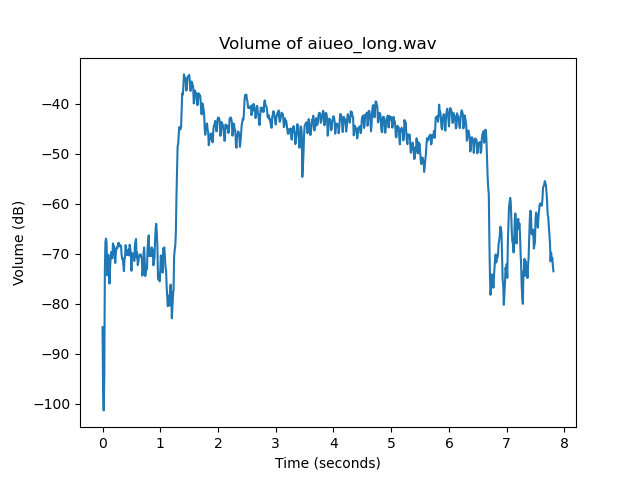
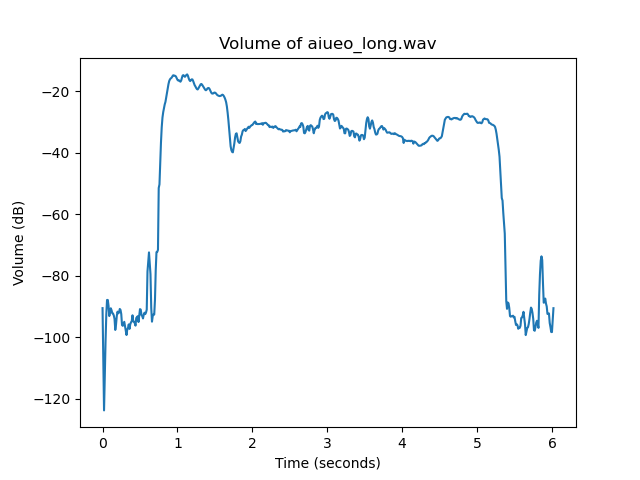
exer05 and exer06 - re-did for new audio

diff --git a/01_audio_recognition/05_06_aiueo_volume/plot_volume.py b/01_audio_recognition/05_06_aiueo_volume/plot_volume.py
@@ -1,53 +1,28 @@
-#
-# 計算機科学実験及演習 4「音響信号処理」
-# uses the recorded aiueo file to produce a graph of the volume of the audio file
-#
-
-# ライブラリの読み込み
 import matplotlib.pyplot as plt
 import numpy as np
 import librosa
 
 # サンプリングレート
 SR = 16000
+size_frame = 512
+size_shift = 16000 / 100
 
-# 音声ファイルの読み込み
-x, _ = librosa.load("../01_recording_aiueo/aiueo_long.wav", sr=SR)
-# x, _ = librosa.load("../01_recording_aiueo/aiueo_short.wav", sr=SR)
+# x, _ = librosa.load("../01_recording_aiueo/aiueo_long.wav", sr=SR)
+x, _ = librosa.load("../01_recording_aiueo/aiueo_short.wav", sr=SR)
 
-#
-# 短時間フーリエ変換
-#
-
-# フレームサイズ
-size_frame = 512  # 2のべき乗
-
-# シフトサイズ
-size_shift = 16000 / 100  # 0.01 秒 (10 msec)
-
-# volume threshhold
-threshold = -60  # for aiueo_long.wav
-# threshold = -40  # for aiueo_short.wav
-flag = False
-# container for volume
 volume_db = []
 
-# size_shift分ずらしながらsize_frame分のデータを取得
-# np.arange関数はfor文で辿りたい数値のリストを返す
-# 通常のrange関数と違うのは3つ目の引数で間隔を指定できるところ
-# (初期位置, 終了位置, 1ステップで進める間隔)
-for i in np.arange(0, len(x) - size_frame, size_shift):
+threshold = -40
+flag = False
 
-    # 該当フレームのデータを取得
-    idx = int(i)  # arangeのインデクスはfloatなのでintに変換
+for i in np.arange(0, len(x) - size_frame, size_shift):
+    idx = int(i)
     x_frame = x[idx: idx + size_frame]
     volume = 20 * np.log10(np.mean(x_frame**2))
 
     # ============= Exercise 6 ===============#
-    # aise flag if volume is above threshold
-    # as a check for speach in the audio file
-    # print to console the time when flag is raised
-    # and when the flag is lowered.
+    # code to log to terminal when speech starts
+    # and ends in the audio files
     time_in_seconds = i / SR
     if volume > threshold and not flag:
         print(f"Speach started at: {time_in_seconds:.2f} seconds")
@@ -57,10 +32,8 @@ for i in np.arange(0, len(x) - size_frame, size_shift):
         flag = False
     # ========================================#
 
-    # フレームの音量を計算
     volume_db.append(volume)
 
-# 画像として保存するための設定
 fig = plt.figure()
 
 # plot volume graph
@@ -68,15 +41,10 @@ time = np.arange(0, len(volume_db)) * size_shift / SR
 plt.plot(time, volume_db)
 plt.xlabel("Time (seconds)")
 plt.ylabel("Volume (dB)")
-plt.title("Volume of aiueo_long.wav")
-# plt.title("Volume of aiueo_short.wav")
+# plt.title("Volume of aiueo_long.wav")
+plt.title("Volume of aiueo_short.wav")
 
-# 画像の表示
 plt.show()
 
-# 【補足】
-# 縦軸の最大値はサンプリング周波数の半分 = 16000 / 2 = 8000 Hz となる
-
-# 画像ファイルに保存
-fig.savefig("plot-volume-long.png")
-# fig.savefig("plot-volume-short.png")
+# fig.savefig("plot-volume-long.png")
+fig.savefig("plot-volume-short.png")

diff --git a/01_audio_recognition/05_06_aiueo_volume/audio_terminal.md b/01_audio_recognition/05_06_aiueo_volume/audio_terminal.md
@@ -1,0 +1,35 @@
+# Exercise 07
+
+## 音量に対して適切な閾値を設定し，発話区間（話している区間）を自動で抽出せよ．発話区間の開始と終了の時間情報を（コマンドプロンプト，ターミナルを含む）何らかの形式で表示できればよい．
+
+### aiueo_long.wav
+
+![](plot-volume-long.png)
+
+Terminal output is the following...
+
+```bash
+❯ python plot_volume.py
+Speach started at: 0.75 seconds
+Speach ended at: 5.36 seconds
+```
+
+### aiueo_short.wav
+
+![](plot-volume-short.png)
+
+Terminal output is the following...
+
+```bash
+❯ python plot_volume.py
+Speach started at: 0.77 seconds
+Speach ended at: 1.09 seconds
+Speach started at: 1.82 seconds
+Speach ended at: 2.08 seconds
+Speach started at: 2.79 seconds
+Speach ended at: 3.06 seconds
+Speach started at: 3.83 seconds
+Speach ended at: 4.15 seconds
+Speach started at: 4.86 seconds
+Speach ended at: 5.20 seconds
+```
